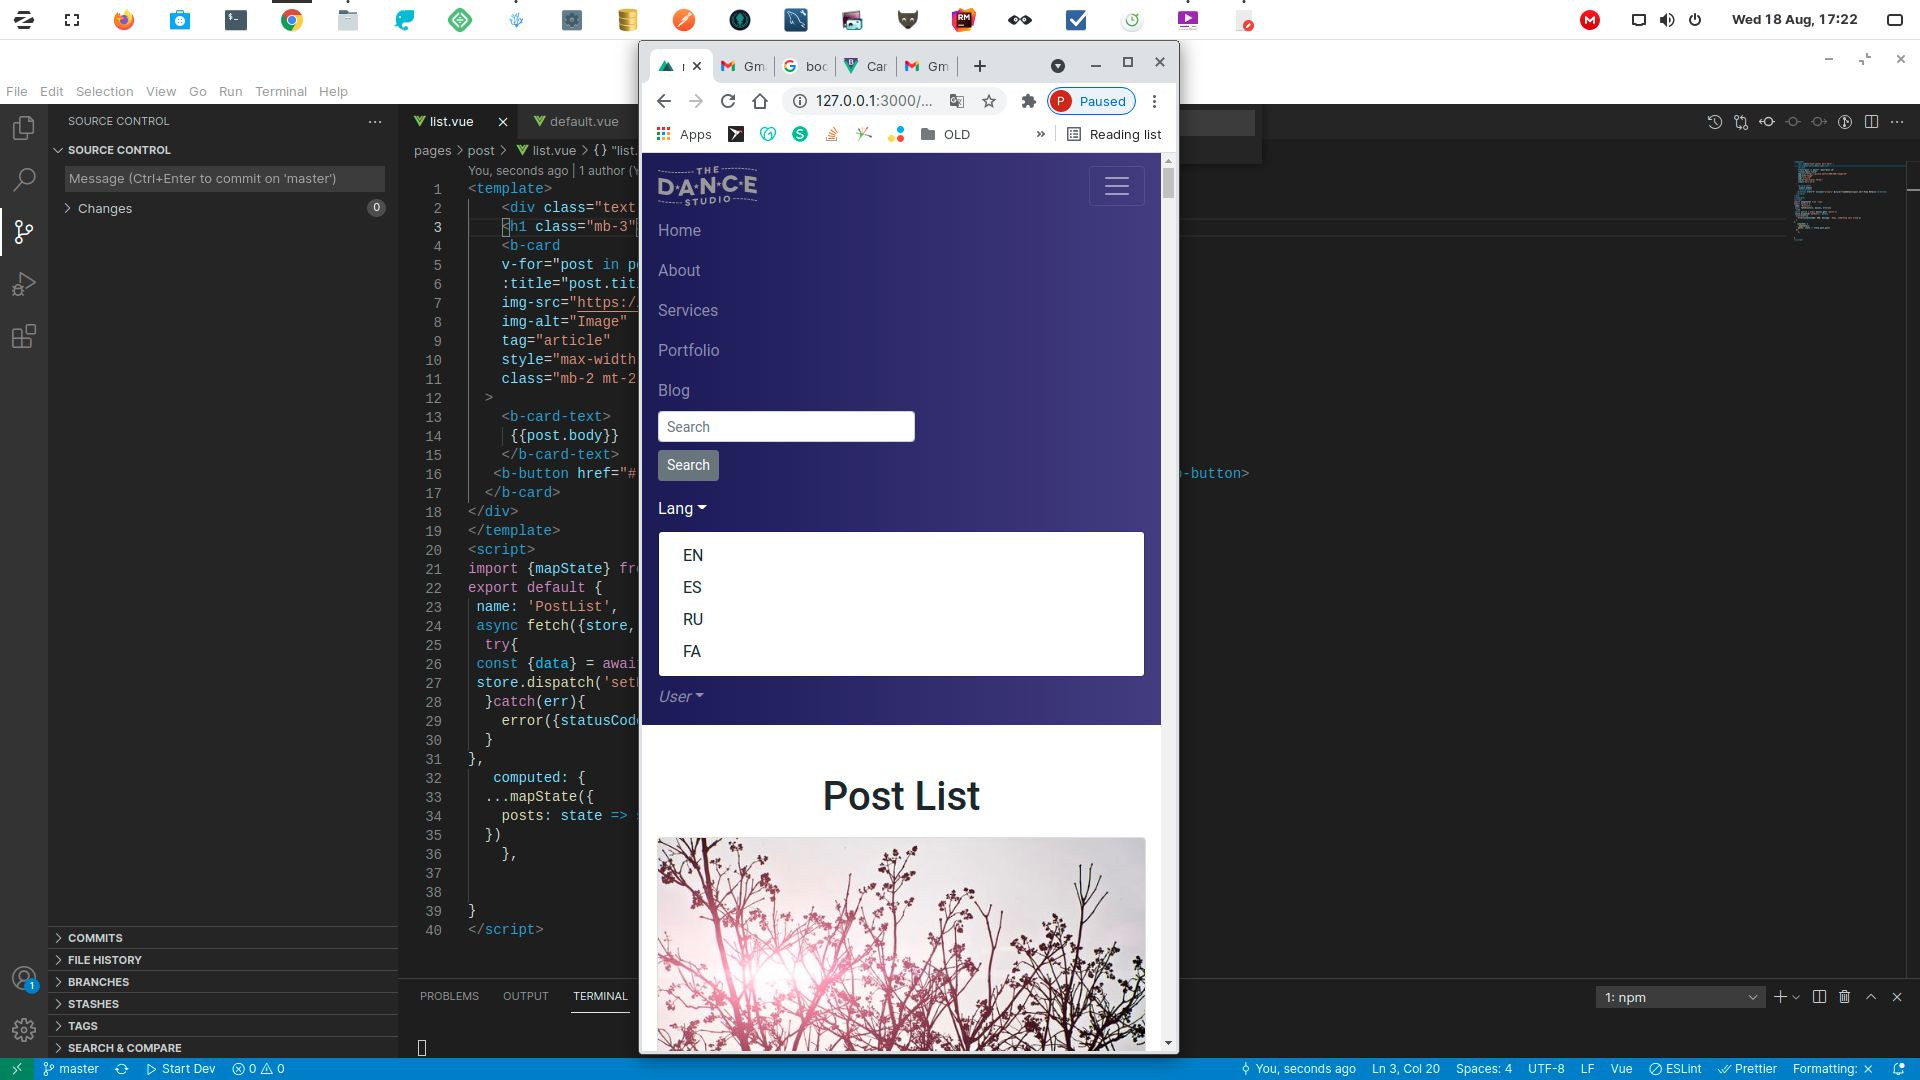
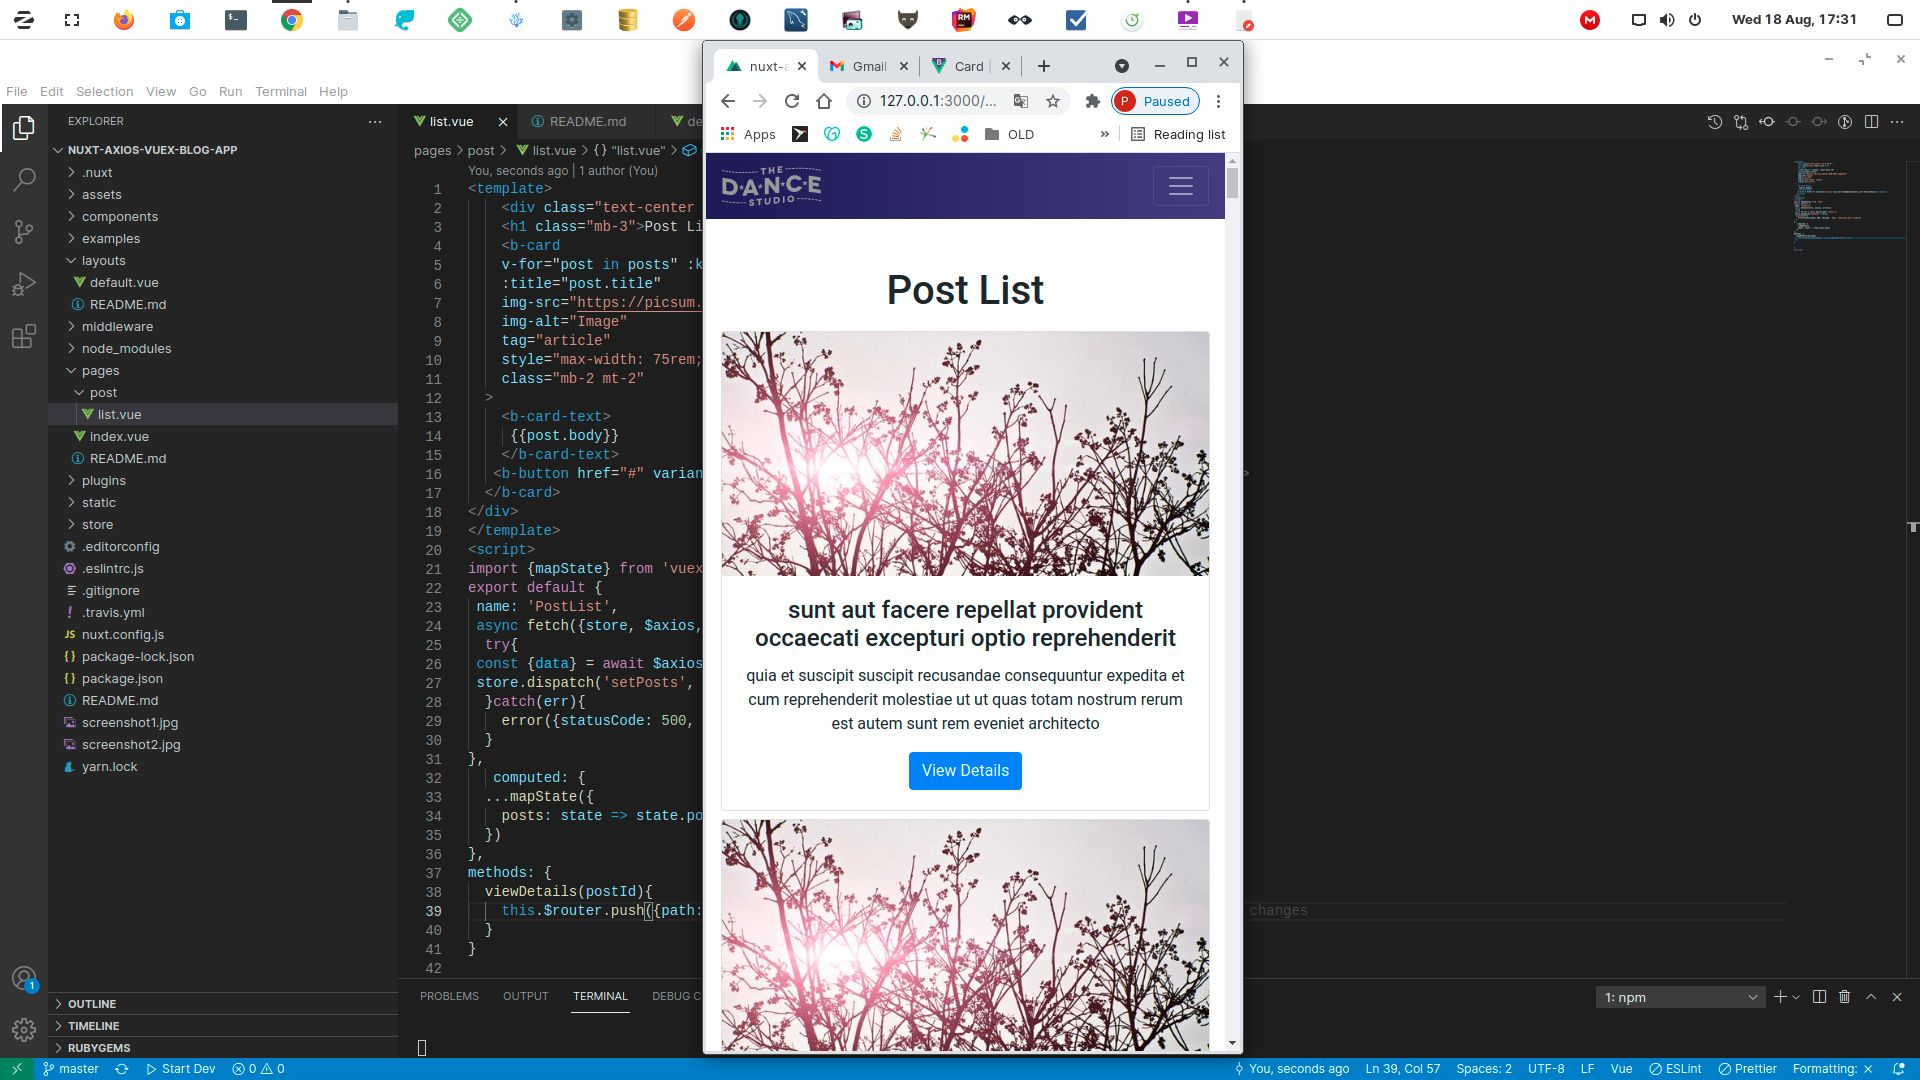
Method View Details

diff --git a/pages/post/list.vue b/pages/post/list.vue
@@ -32,8 +32,13 @@ export default {
    computed: {
   ...mapState({
     posts: state => state.post.posts
-  })
-    },
+  }) 
+},
+methods: {
+  viewDetails(postId){
+    this.$router.push({path: `/post/${postId}/details`})
+  }
+}
 
     
 }

diff --git a/README.md b/README.md
@@ -1,7 +1,8 @@
 # nuxt-bootstrap-vue-uifort-kit
+Vuex/Axios calls to external api and display posts and single posts, image hard coded but can bind to data if any present in object
+Store modules.
 
-
-Nuxt.js project + Bootstrap Vue uifort CSS Framework with customized uifort component examples in examples folder.
+Nuxt.js project + Bootstrap Vue uifort CSS Framework with other customized uifort component examples in examples folder.
 
 Demo at: https://lucky-pizzas.surge.sh/
 
